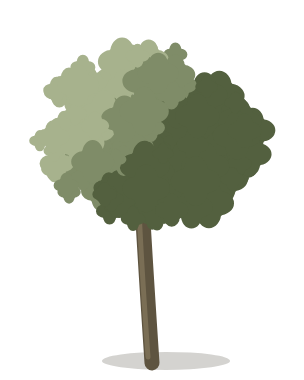
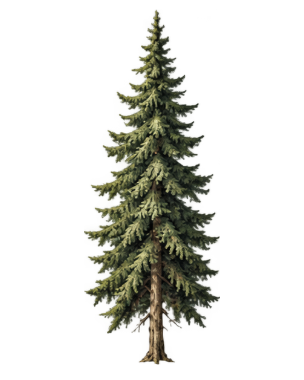
Die echten Bäume sind drin
Acht gezeichnete Bäume, aus einem Blatt geschnitten, im Satz. Keine
einzige Beanstandung des Prüfers – Fußpunkt, freier Rand,
Seitenverhältnis, Lichtrichtung, Deckung, und der Satz als ganzer.

Der Freisteller hatte zwei Fehler, und beide standen im gebackenen
Atlas, nicht im Code:

  * **Gleich breite Spalten sind zu naiv.** Ein Modell zeichnet die
    Bäume verschieden breit; die Eiche war breiter als ihre Spalte,
    bekam eine glatt abgeschnittene Krone, und in die Nachbarspalten
    ragten Splitter von ihr hinein. Geschnitten wird jetzt an den
    **Lücken** – welche Bildspalten sind vollständig durchsichtig.
  * **Berühren sich zwei Kronen, gibt es keine Lücke.** Am gelieferten
    Blatt: acht Bäume, sechs Gruppen. Dann wird nicht gesucht, sondern
    geteilt: die breiteste Gruppe an ihrer dünnsten Stelle, und nur im
    mittleren Bereich, damit der Schnitt zwischen zwei Kronen läuft und
    nicht am Rand einer entlang.

Dazu `--frei`: Ein Blatt, das seine Durchsichtigkeit mitbringt, wird
nicht noch einmal freigestellt. Das Werkzeug, das es freigestellt hat,
sieht weiche Blattränder, wo eine Farbschwelle nur Weiß stehen lässt –
der Hinweis kam vom Verfasser, und er stimmt. Geteilt und eingepasst
wird trotzdem: Ein Blatt mit acht Bäumen ist auch freigestellt noch
kein Satz aus acht Dateien.

Eine Prüfung musste nachgeben: Sie verlangte, dass mindestens ein Bild
noch aus dem Pinsel kommt. Das war richtig, solange nur ein Platzhalter
[…]

diff --git a/studio/scripts/atlas/freisteller.html b/studio/scripts/atlas/freisteller.html
@@ -93,6 +93,73 @@ function freistellen(ctx, w, h, toleranz, weich) {
   return { r: Math.round(r), g: Math.round(g), b: Math.round(b) };
 }
 
+/**
+ * Wo das Blatt leer ist – und damit, wo ein Baum aufhört.
+ *
+ * ---
+ *
+ * **Der Fehler, den das behebt, stand im gebackenen Atlas.**
+ *
+ * Der erste Anlauf teilte das Blatt in acht gleich breite Spalten. Ein
+ * Modell zeichnet die Bäume aber verschieden breit: Die Eiche war breiter
+ * als ihre Spalte und bekam eine **glatt abgeschnittene Krone**, und in die
+ * Nachbarspalten ragten Splitter von ihr hinein.
+ *
+ * Also wird nicht gerechnet, sondern nachgesehen: Welche Bildspalten sind
+ * vollständig durchsichtig? Dazwischen liegt je ein Baum. Das ist zugleich
+ * nachsichtig gegen ungleiche Abstände – das Modell muss nicht ausmessen.
+ */
+function luecken(ctx, w, h, erwartet) {
+  const d = ctx.getImageData(0, 0, w, h).data;
+  const deckung = new Int32Array(w);
+  for (let y = 0; y < h; y++) {
+    for (let x = 0; x < w; x++) if (d[(y * w + x) * 4 + 3] > 16) deckung[x]++;
+  }
+  /* Eine Spalte gilt als leer, wenn fast nichts darin steht – ein paar
+     Streupunkte aus der weichen Kante sollen keine Lücke schliessen. */
+  const schwelle = Math.max(1, Math.round(h * 0.004));
+  const gruppen = [];
+  let von = -1;
+  for (let x = 0; x < w; x++) {
+    const voll = deckung[x] > schwelle;
+    if (voll && von < 0) von = x;
+    if (!voll && von >= 0) { gruppen.push([von, x - 1]); von = -1; }
+  }
+  if (von >= 0) gruppen.push([von, w - 1]);
+  /* Winzige Reste – Blattspitzen, die allein stehen – an den Nachbarn
+     anschliessen, statt sie als eigenen Baum zu zählen. */
+  let breit = gruppen.filter(([a, b]) => b - a > w * 0.01);
+
+  /*
+   * **Und wenn sich zwei Kronen berühren, gibt es keine Lücke.**
+   *
+   * Gemessen an einem gelieferten Blatt: acht Bäume, aber nur **sechs**
+   * Gruppen – zweimal griffen benachbarte Kronen ineinander. Eine Lücke von
+   * null Bildpunkten Breite findet keine Schwelle.
+   *
+   * Dann wird nicht gesucht, sondern geteilt: Die breiteste Gruppe bekommt
+   * einen Schnitt an ihrer **dünnsten** Stelle – dort, wo am wenigsten Laub
+   * steht, also zwischen zwei Kronen und nicht mitten durch eine. Gesucht
+   * wird nur im mittleren Bereich, damit der Schnitt nicht am Rand einer
+   * Krone entlanggeht.
+   */
+  while (erwartet && breit.length < erwartet && breit.length > 0) {
+    let i = 0;
+    for (let k = 1; k < breit.length; k++) {
+      if (breit[k][1] - breit[k][0] > breit[i][1] - breit[i][0]) i = k;
+    }
+    const [a, b] = breit[i];
+    const rand = Math.round((b - a) * 0.2);
+    let bestX = -1, bestW = Infinity;
+    for (let x = a + rand; x <= b - rand; x++) {
+      if (deckung[x] < bestW) { bestW = deckung[x]; bestX = x; }
+    }
+    if (bestX < 0 || b - a < 8) break;
+    breit = [...breit.slice(0, i), [a, bestX - 1], [bestX, b], ...breit.slice(i + 1)];
+  }
+  return breit;
+}
+
 /** Der Kasten, in dem das Bild deckt. */
 function kasten(ctx, w, h) {
   const d = ctx.getImageData(0, 0, w, h).data;
@@ -175,7 +242,7 @@ function einpassen(quelle, k, soll, vertrag, hoechstens) {
  * nebeneinander sieht. Das ist der einzige verlässliche Weg zu einem Satz,
  * der zusammengehört.
  */
-window.freistelle = async (url, { spalten = 1, zeilen = 1, soll, vertrag, toleranz, weich, hoechstens }) => {
+window.freistelle = async (url, { spalten = 1, zeilen = 1, soll, vertrag, toleranz, weich, hoechstens, nachLuecken = false, schonFrei = false }) => {
   const bild = await new Promise((fertig, scheitern) => {
     const i = new Image();
     i.onload = () => fertig(i);
@@ -183,10 +250,51 @@ window.freistelle = async (url, { spalten = 1, zeilen = 1, soll, vertrag, tolera
     i.src = url;
   });
 
-  const tw = Math.floor(bild.width / spalten);
-  const th = Math.floor(bild.height / zeilen);
   const aus = [];
   let grund = null;
+
+  if (nachLuecken) {
+    /*
+     * **Erst freistellen, dann teilen.**
+     *
+     * Umgekehrt ginge es nicht: Die Lücken sieht man erst, wenn der
+     * Hintergrund weg ist.
+     */
+    const ganz = document.createElement('canvas');
+    ganz.width = bild.width; ganz.height = bild.height;
+    const gctx = ganz.getContext('2d', { willReadFrequently: true });
+    gctx.drawImage(bild, 0, 0);
+    /*
+     * **Ein schon freigestelltes Bild wird nicht noch einmal freigestellt.**
+     *
+     * Wer die Durchsichtigkeit mitbringt, hat sie meist von einem Werkzeug,
+     * das mehr sieht als eine Flutfüllung – weiche Blattränder vor allem.
+     * Die Flutfüllung noch einmal darüberlaufen zu lassen, nähme nichts weg
+     * und liesse nur Reste stehen, wo der Rand schon halb durchsichtig ist.
+     *
+     * Geteilt und eingepasst wird trotzdem: Ein Blatt mit acht Bäumen ist
+     * auch freigestellt noch kein Satz aus acht Dateien.
+     */
+    grund = schonFrei
+      ? { r: -1, g: -1, b: -1 }
+      : freistellen(gctx, bild.width, bild.height, toleranz, weich);
+
+    const gruppen = luecken(gctx, bild.width, bild.height, spalten);
+    for (const [x0, x1] of gruppen) {
+      const bw = x1 - x0 + 1;
+      const teil = document.createElement('canvas');
+      teil.width = bw; teil.height = bild.height;
+      const tctx = teil.getContext('2d', { willReadFrequently: true });
+      tctx.drawImage(ganz, x0, 0, bw, bild.height, 0, 0, bw, bild.height);
+      const k = kasten(tctx, bw, bild.height);
+      if (!k) { aus.push(null); continue; }
+      aus.push(einpassen(teil, k, soll, vertrag, hoechstens).toDataURL('image/png'));
+    }
+    return { bilder: aus, grund, gruppen: gruppen.length, teilbreite: 0, teilhoehe: bild.height };
+  }
+
+  const tw = Math.floor(bild.width / spalten);
+  const th = Math.floor(bild.height / zeilen);
 
   for (let z = 0; z < zeilen; z++) {
     for (let s = 0; s < spalten; s++) {

diff --git a/studio/BILDANWEISUNG.md b/studio/BILDANWEISUNG.md
@@ -9,9 +9,17 @@ Dieses Blatt ist zum Kopieren gedacht. Es übersetzt den Vertrag aus
 
 ```
 1.  Bild erzeugen lassen          →  assets/karte/<satz>/roh/<art>_blatt.png
-2.  npm run freistellen -- <satz> <art> 8 --blatt
+2.  npm run freistellen -- <satz> <art> 8 --blatt [--frei]
 3.  npm run atlas                 ←  hier fällt durch, was nicht passt
 ```
+
+**`--frei`, wenn das Blatt schon freigestellt ist.** ChatGPT kann das
+liefern, und sein Freistellen ist besser als eine Flutfüllung – es sieht
+weiche Blattränder, wo eine Farbschwelle nur Weiß stehen lässt. Dann wird
+hier nur noch geteilt und eingepasst.
+
+Ohne `--frei` wird der einfarbige Grund selbst entfernt. Das ist der
+Rückfallweg, nicht der bessere Weg.
 
 Mehr passiert nicht. Kein Programmteil ändert sich, keine Kartendaten ändern
 sich, und wo keine Datei liegt, zeichnet weiter der Pinsel.
@@ -38,10 +46,10 @@ kann, ist die Lichtrichtung. Die muss aus dem Bild kommen.
 > Erzeuge **ein einziges Bild** mit **acht Bäumen nebeneinander in einer
 > Reihe**, gleichmäßig verteilt, mit deutlichem Abstand zueinander.
 >
-> **Hintergrund:** ein vollkommen **einfarbiges, flaches Mittelgrau**
-> (#EDEDE9). Kein Himmel, kein Boden, keine Wiese, keine Wolken, kein
-> Farbverlauf, **kein Schlagschatten auf dem Boden**. Der Hintergrund muss
-> sich deutlich von jedem Ton im Motiv absetzen.
+> **Hintergrund:** durchsichtig, wenn möglich. Sonst ein vollkommen
+> **einfarbiges, flaches Mittelgrau** (#EDEDE9). Kein Himmel, kein Boden,
+> keine Wiese, keine Wolken, kein Farbverlauf, **kein Schlagschatten auf dem
+> Boden**.
 >
 > **Ansicht:** Schrägansicht von vorn, etwa 30° über dem Horizont — so, wie
 > man einen Baum sieht, wenn man zwanzig Schritte entfernt steht. Nicht von
@@ -78,7 +86,9 @@ kann, ist die Lichtrichtung. Die muss aus dem Bild kommen.
 | `der Fuß sitzt bei … % der Höhe` | Der Freisteller lief nicht, oder das Bild hat einen Schlagschatten, der als Motiv gilt. | Über `npm run freistellen` gehen; Schlagschatten aus der Anweisung streichen. |
 | `Seitenverhältnis … statt …` | Von Hand zugeschnitten. | Den Freisteller machen lassen. |
 | `Bild N deckt … %, der Satz im Mittel …` | Ein Baum ist viel dichter oder viel dünner gezeichnet. | Dieses Feld ersetzen. |
-| `Feld N ist leer – Hintergrund zu nah am Motiv?` | Der Grund ist zu ähnlich zum Laub. | Grauen Grund verlangen, nicht grünen. |
+| `Feld N ist leer – Hintergrund zu nah am Motiv?` | Der Grund ist zu ähnlich zum Laub. | Grauen Grund verlangen, nicht grünen – oder freigestellt liefern lassen und `--frei` nehmen. |
+| `erwartet waren 8` (weniger gefunden) | Zwei Kronen berühren sich. | Nichts tun: Die breiteste Gruppe wird an ihrer dünnsten Stelle getrennt. Nur nachsehen, ob es gestimmt hat. |
+| Kronen glatt abgeschnitten | Trat auf, solange in gleiche Spalten geteilt wurde. | Behoben – geschnitten wird an den Lücken. |
 
 ---
 

diff --git a/studio/assets/karte/artbook/LIESMICH.md b/studio/assets/karte/artbook/LIESMICH.md
@@ -10,20 +10,19 @@ Was fehlt, zeichnet der Pinsel aus `scripts/atlas/pinsel.mjs`. Das Verzeichnis
 `public/karte/artbook/atlas.json` vermerkt je Variante `gemalt` oder
 `gebacken`.
 
-Die Regeln, die eine Datei einhalten muss, stehen in
-`scripts/atlas/saetze.mjs` (`VERTRAG`) und werden beim Backen gemessen. Der
-Weg von einem Rohbild dorthin:
+## Was hier liegt
 
-    assets/karte/artbook/roh/wald_blatt.png     das Rohbild
-    npm run freistellen -- artbook wald 8 --blatt
+Acht Baumzeichnungen – vier Nadel, vier Laub –, aus einem einzigen Blatt
+erzeugt und daraus geschnitten. **Alle acht halten den Vertrag** aus
+`scripts/atlas/saetze.mjs`: Fußpunkt auf der Unterkante, Licht von links
+oben, freier Rand, Seitenverhältnis 0,8 : 1.
+
+Das Rohbild liegt unter `roh/wald_blatt.png` und bringt seine
+Durchsichtigkeit schon mit. Der Weg von dort hierher:
+
+    npm run freistellen -- artbook wald 8 --blatt --frei
     npm run atlas
 
-## Was hier gerade liegt
-
-`wald_00.png` ist ein **Platzhalter**, von Hand gerechnet – kein Werk eines
-Bildmodells und nicht das Qualitätsziel. Sie steht hier, damit der
-Austauschweg an einer echten Datei geprüft ist.
-
-`roh/wald_blatt.png` ist ebenfalls ein Platzhalter: ein nachgestelltes
-Modellergebnis (acht Bäume nebeneinander auf einfarbigem Grund, mit
-absichtlich uneinheitlichen Fußlinien), an dem der Freisteller geprüft wird.
+`--frei` sagt: Nicht noch einmal freistellen. Geteilt und eingepasst wird
+trotzdem – ein Blatt mit acht Bäumen ist auch freigestellt noch kein Satz
+aus acht Dateien.
